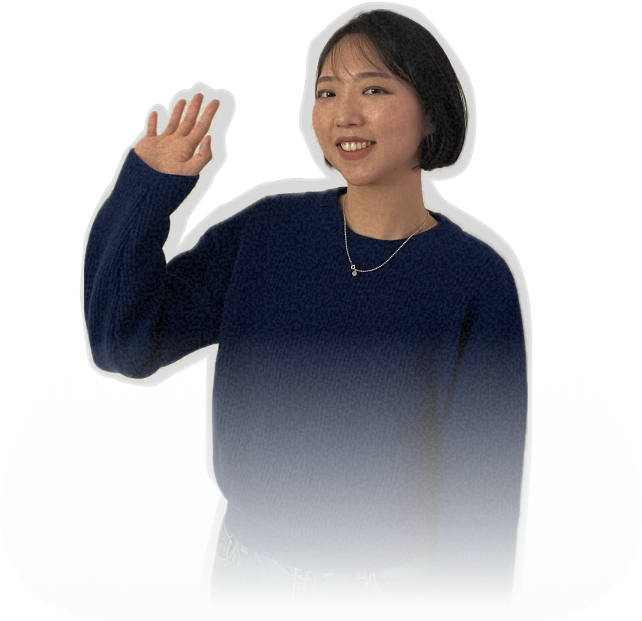
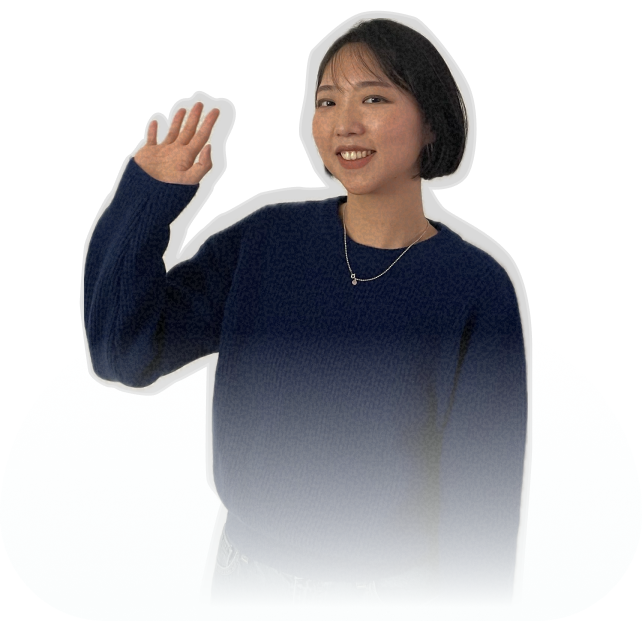
refinement

diff --git a/src/imports/LandingPage.tsx b/src/imports/LandingPage.tsx
@@ -3,6 +3,7 @@ import imgSue1 from "../assets/sue-final.png";
 import imgSueClick from "../assets/sue-final-click.png";
 import imgFigmaLogo from "../assets/1Figma Logo.png";
 import imgShipIt from "../assets/2Ship It.png";
+import imgStar25 from "../assets/2-5-Star.png";
 import imgStar from "../assets/3Star.png";
 import imgSmile from "../assets/4Smile.png";
 import imgScale from "../assets/5Scale.png";
@@ -84,6 +85,7 @@ function ProfileImageContainer() {
         />
         <FloatingVisual className="absolute left-[-4px] bottom-[38px] w-[48px] h-auto float-soft" src={imgFigmaLogo} axis="z" />
         <FloatingVisual className="absolute left-[-11px] top-[35px] w-[62px] h-auto float-soft float-soft-delayed-1" src={imgShipIt} />
+        <FloatingVisual className="absolute left-[65px] top-[-3px] w-[13.5px] h-auto float-soft float-soft-delayed-2 hidden" src={imgStar25} />
         <FloatingVisual className="absolute right-[13px] top-[-24px] w-[42px] h-auto float-soft float-soft-delayed-2" src={imgStar} />
         <FloatingVisual className="absolute right-[-20px] top-[74px] w-[50px] h-auto float-soft float-soft-delayed-3" src={imgSmile} axis="z" />
         <FloatingVisual className="absolute right-[27px] bottom-[7px] w-[42px] h-auto float-soft float-soft-delayed-4" src={imgScale} />
